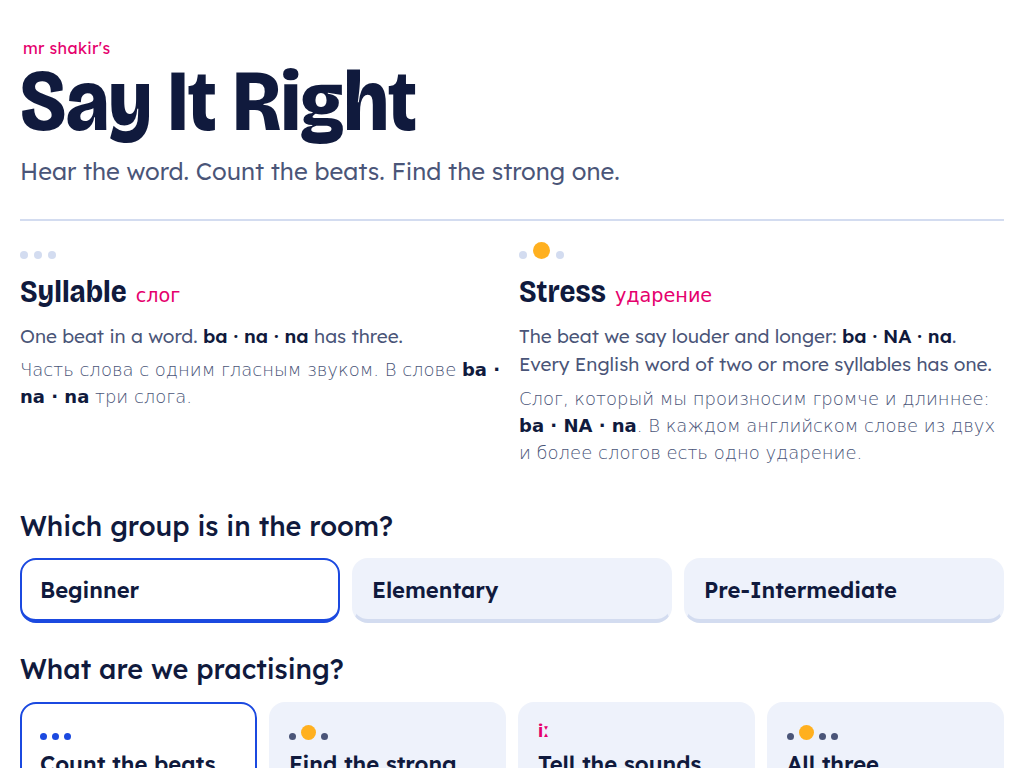
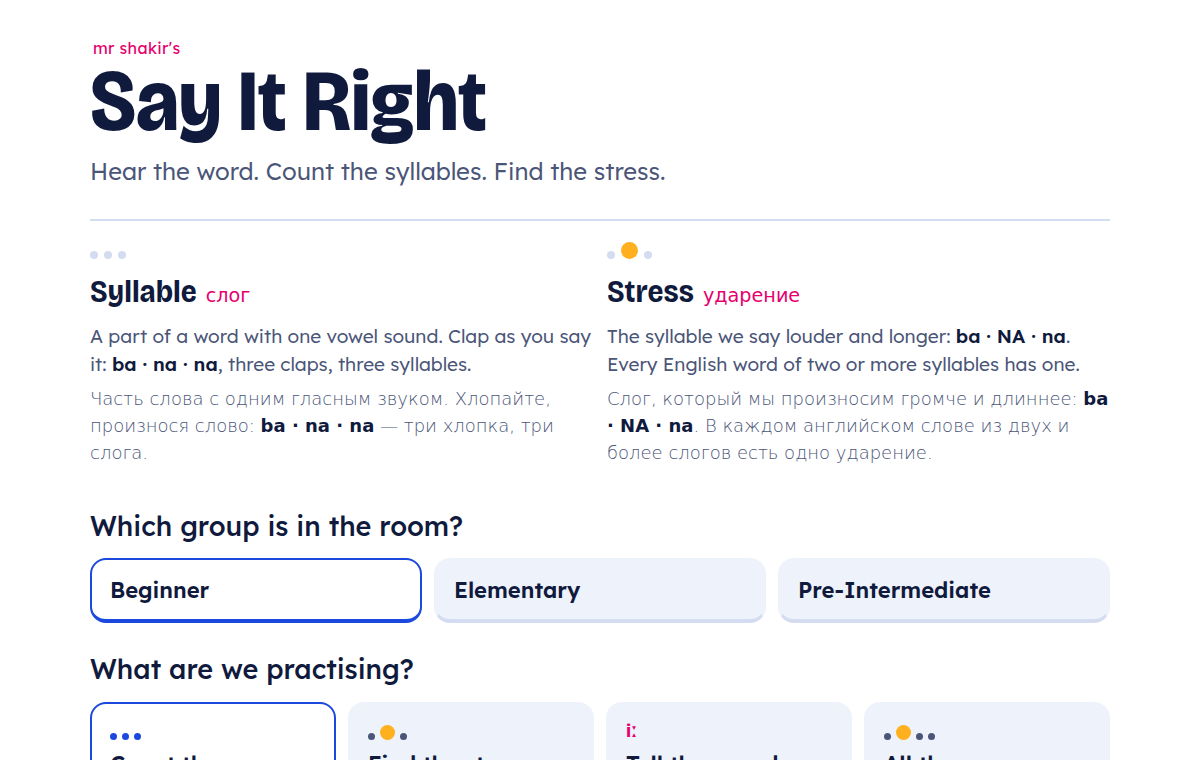
Say syllable and stress on screen, keep clapping as the explanation
"Beat" replaced one unfamiliar word with another and is ambiguous (to beat).
Students meet "syllable" and "stress" in the coursebook and in tests, so the
labels and questions now use those terms, while the definitions keep the clap
metaphor that makes them concrete, in English and Russian.

diff --git a/index.html b/index.html
@@ -18,20 +18,20 @@
   <header class="masthead">
     <p class="mr">mr shakir's</p>
     <h1>Say It Right</h1>
-    <p class="tag">Hear the word. Count the beats. Find the strong one.</p>
+    <p class="tag">Hear the word. Count the syllables. Find the stress.</p>
   </header>
 
   <div class="primer">
     <div class="term">
       <span class="beats" aria-hidden="true"><i class="b s"></i><i class="b s"></i><i class="b s"></i></span>
       <h2>Syllable <span class="ru-term">слог</span></h2>
-      <p>One beat in a word. <b>ba &middot; na &middot; na</b> has three.</p>
-      <p class="ru" lang="ru">Часть слова с одним гласным звуком. В слове <b>ba &middot; na &middot; na</b> три слога.</p>
+      <p>A part of a word with one vowel sound. Clap as you say it: <b>ba &middot; na &middot; na</b>, three claps, three syllables.</p>
+      <p class="ru" lang="ru">Часть слова с одним гласным звуком. Хлопайте, произнося слово: <b>ba &middot; na &middot; na</b> &mdash; три хлопка, три слога.</p>
     </div>
     <div class="term">
       <span class="beats" aria-hidden="true"><i class="b s"></i><i class="b l"></i><i class="b s"></i></span>
       <h2>Stress <span class="ru-term">ударение</span></h2>
-      <p>The beat we say louder and longer: <b>ba &middot; NA &middot; na</b>. Every English word of two or more syllables has one.</p>
+      <p>The syllable we say louder and longer: <b>ba &middot; NA &middot; na</b>. Every English word of two or more syllables has one.</p>
       <p class="ru" lang="ru">Слог, который мы произносим громче и длиннее: <b>ba &middot; NA &middot; na</b>. В каждом английском слове из двух и более слогов есть одно ударение.</p>
     </div>
   </div>
@@ -47,13 +47,13 @@
       <div class="picks">
         <button type="button" class="pick" data-mode="syllables">
           <span class="pick-demo"><i class="b s"></i><i class="b s"></i><i class="b s"></i></span>
-          <strong>Count the beats</strong>
-          <span class="pick-sub">ba na na, three</span>
+          <strong>Count the syllables</strong>
+          <span class="pick-sub">ba &middot; na &middot; na is three</span>
         </button>
         <button type="button" class="pick" data-mode="stress">
           <span class="pick-demo"><i class="b s"></i><i class="b l"></i><i class="b s"></i></span>
-          <strong>Find the strong beat</strong>
-          <span class="pick-sub">ba NA na</span>
+          <strong>Find the stress</strong>
+          <span class="pick-sub">ba &middot; NA &middot; na</span>
         </button>
         <button type="button" class="pick" data-mode="sounds">
           <span class="pick-demo pick-ipa">iː</span>
@@ -93,15 +93,15 @@
       <summary>How to play</summary>
       <div class="howto-body">
         <p><b>Every turn is the same loop.</b> The word appears and is spoken, someone
-        answers, the answer opens up with the beats marked, you press Next word.</p>
+        answers, the answer opens up with the stress marked, you press Next word.</p>
 
         <h3>The three games</h3>
         <ul>
-          <li><b>Count the beats.</b> The word appears whole, like <i>student</i>. Say how
-          many syllables. The answer splits it into <i>stu &middot; dent</i>.</li>
-          <li><b>Find the strong beat.</b> The word is already split, like
-          <i>ex &middot; pe &middot; ri &middot; ence</i>. Choose the loud one. The big bubble
-          and the <i>o O o o</i> pattern show the answer.</li>
+          <li><b>Count the syllables.</b> The word appears whole, like <i>student</i>. Say how
+          many syllables it has. The answer splits it into <i>stu &middot; dent</i>.</li>
+          <li><b>Find the stress.</b> The word is already split, like
+          <i>ex &middot; pe &middot; ri &middot; ence</i>. Choose the syllable said louder and
+          longer. The big bubble and the <i>o O o o</i> pattern show the answer.</li>
           <li><b>Tell the sounds apart.</b> A sound appears, like /iː/ as in "tree". Choose
           which of the two words has it.</li>
         </ul>
@@ -117,7 +117,7 @@
         </ol>
 
         <h3>Where the learning happens</h3>
-        <p>When the answer opens, say the word together and clap the strong beat. The score
+        <p>When the answer opens, say the word together and clap on the stressed syllable. The score
         matters less than that moment. At the end of the round the game lists only the words
         the class got wrong, with the pattern beside each one, so drill that list before you
         play again.</p>

diff --git a/app.js b/app.js
@@ -92,7 +92,7 @@
     return {
       kind: 'syllables',
       word: e.w,
-      ask: 'How many beats in this word?',
+      ask: 'How many syllables?',
       // the split stays hidden until the answer, or the question gives itself away
       question: whole(e.w),
       reveal: columns(e.syl, e.stress, true),
@@ -100,8 +100,8 @@
       speak: e.w,
       options: choices.map((c) => ({ label: String(c), correct: c === n })),
       told: `<strong>${e.syl.join(' &middot; ')}</strong>, so ${n} ` +
-            `${n === 1 ? 'beat' : 'beats'}.`,
-      how: `${e.syl.join(' &middot; ')}, ${n} ${n === 1 ? 'beat' : 'beats'}`,
+            `${n === 1 ? 'syllable' : 'syllables'}.`,
+      how: `${e.syl.join(' &middot; ')}, ${n} ${n === 1 ? 'syllable' : 'syllables'}`,
     };
   }
 
@@ -110,7 +110,7 @@
     return {
       kind: 'stress',
       word: e.w,
-      ask: 'Which beat is the strong one?',
+      ask: 'Which syllable is stressed?',
       question: columns(e.syl, -1, false),
       reveal: columns(e.syl, e.stress, true),
       pattern: patternOf(e.syl.length, e.stress),
@@ -118,7 +118,7 @@
       options: e.syl.map((s, i) => ({
         label: s, tap: ORDINAL[i], correct: i === e.stress,
       })),
-      told: `The strong beat is <strong>${e.syl[e.stress].toUpperCase()}</strong>: ` +
+      told: `The stress is on <strong>${e.syl[e.stress].toUpperCase()}</strong>: ` +
             e.syl.map((s, i) => (i === e.stress ? s.toUpperCase() : s)).join(' &middot; ') + '.',
       how: e.syl.map((s, i) => (i === e.stress ? s.toUpperCase() : s)).join(' &middot; '),
     };

diff --git a/README.md b/README.md
@@ -8,9 +8,11 @@ needs no installation and no internet once the page has loaded.
 
 ![The stress game revealing the strong beat in "photographic"](docs/screenshot.png)
 
-The design follows how stress is taught at the board: syllables are beats, each beat
-gets a bubble, and the strong beat is the big one. The answer screen also shows the
-`oOo` pattern, so students read the shape of the word as well as the letters.
+The design follows how stress is marked at the board: each syllable gets a bubble and
+the stressed one is the big bubble. The answer also prints the `oOo` pattern, so
+students read the shape of the word as well as the letters. On screen the game uses
+the words students meet in the book, *syllable* and *stress*; clapping is kept as the
+explanation rather than as a label.
 
 Before the games there is a short bilingual reminder of what a **syllable** (слог)
 and **stress** (ударение) are, in English and Russian, so students who need the
@@ -20,8 +22,8 @@ Russian can read it without being taught the terms twice.
 
 | Game | What students do | Teaches |
 |---|---|---|
-| **Count the beats** | Hear and see a word, choose how many syllables | Syllable awareness |
-| **Find the strong beat** | The word appears in syllables, choose the stressed one | Word stress |
+| **Count the syllables** | Hear and see a word, choose how many syllables | Syllable awareness |
+| **Find the stress** | The word appears in syllables, choose the stressed one | Word stress |
 | **Tell the sounds apart** | A sound is shown, for example /iː/ as in "tree", choose the word that has it | Minimal pairs, vowel and consonant contrasts |
 | **Mixed** | All three, alternating | Review |
 
